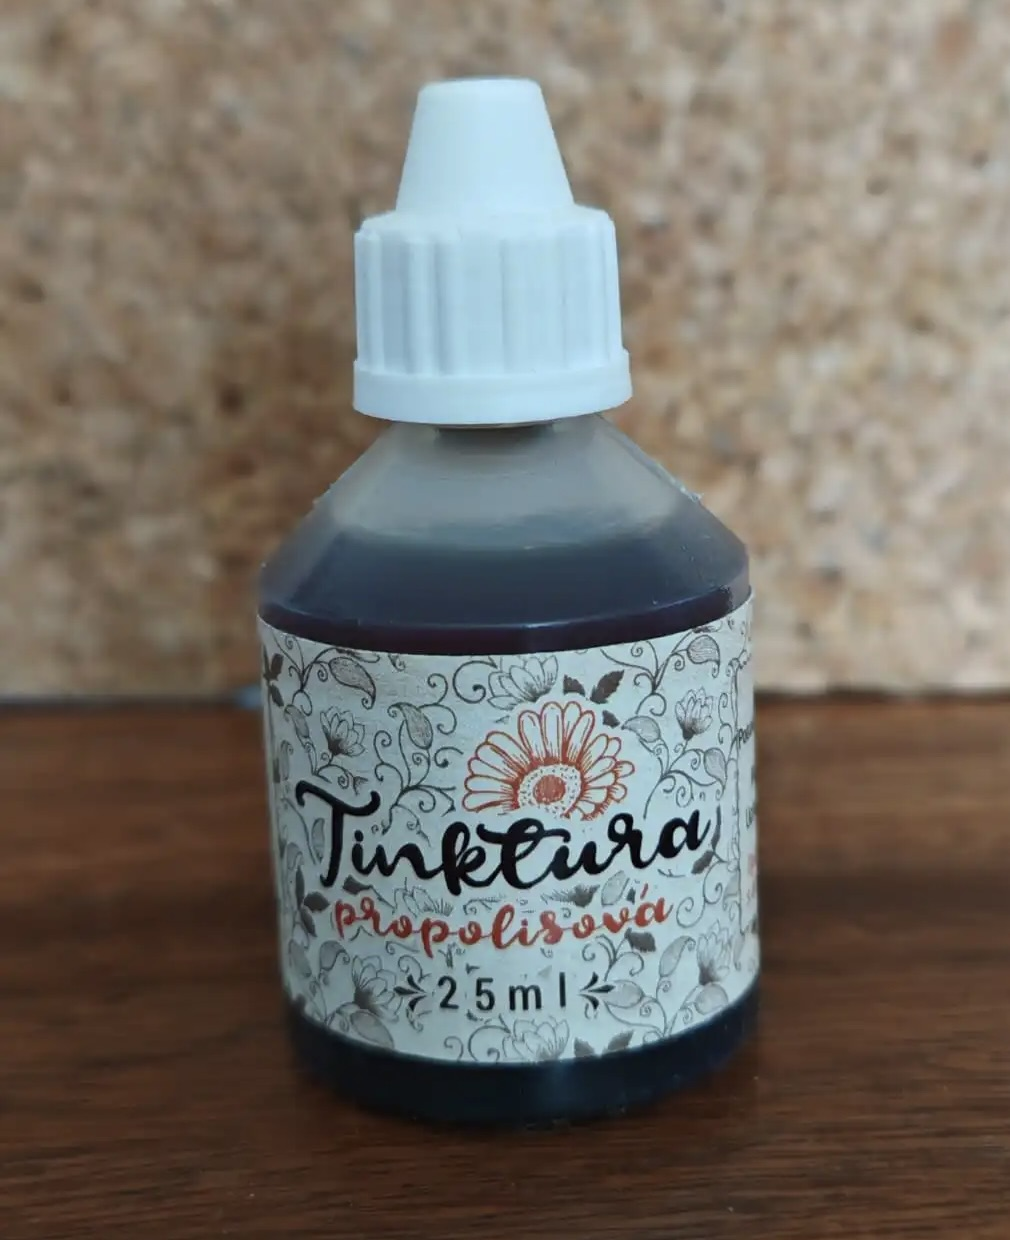
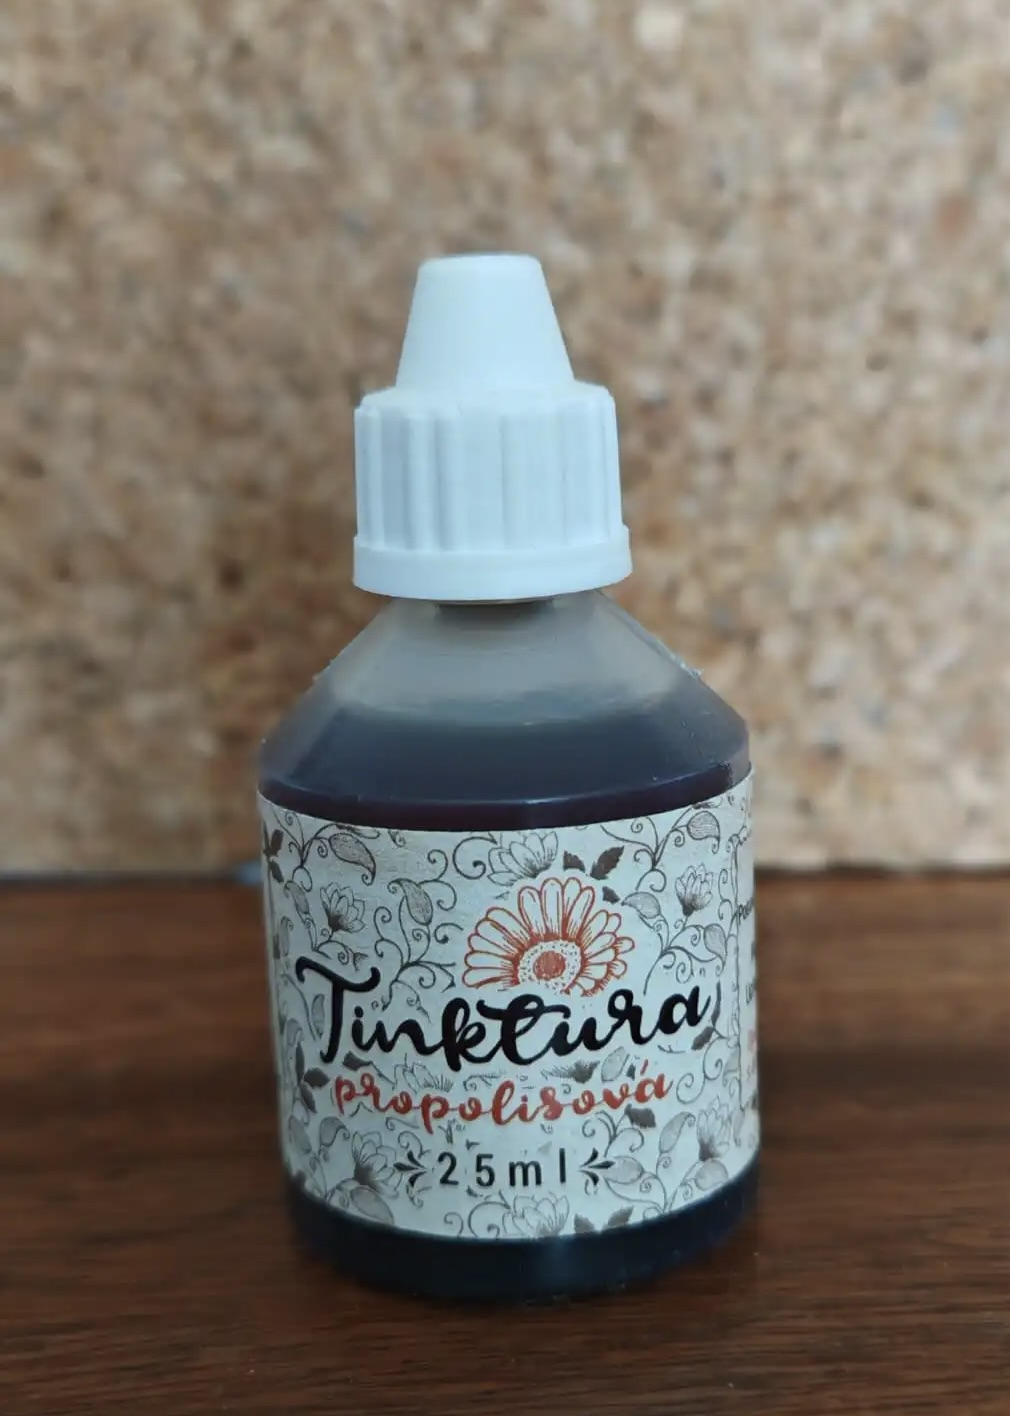
Changes

diff --git a/src/pages/HoneyPage.tsx b/src/pages/HoneyPage.tsx
@@ -31,7 +31,7 @@ const HoneyPage = () => {
         "Přírodní včelí propolis je antibakteriální látka, kterou včely používají k ochraně úlu. Známý pro své léčivé účinky.",
       icon: Droplets,
       features: ["Antibakteriální účinky", "Posiluje imunitu", "100% přírodní"],
-      image: "/lovable-uploads/propolis.webp",
+      image: "/lovable-uploads/propolis.jpeg",
       alt: "Propolis z MVFarma - přírodní včelí produkt",
     },
     {
@@ -39,7 +39,7 @@ const HoneyPage = () => {
       description: "Čistý včelí vosk z našich úlů. Ideální pro výrobu svíček, kosmetiky nebo k použití v domácnosti.",
       icon: Flame,
       features: ["Přírodní materiál", "Pro výrobu svíček", "Kosmetické využití"],
-      image: "/lovable-uploads/vosk.webp",
+      image: "/lovable-uploads/vosk.jpeg",
       alt: "Včelí vosk z MVFarma - přírodní včelí vosk",
     },
   ];
